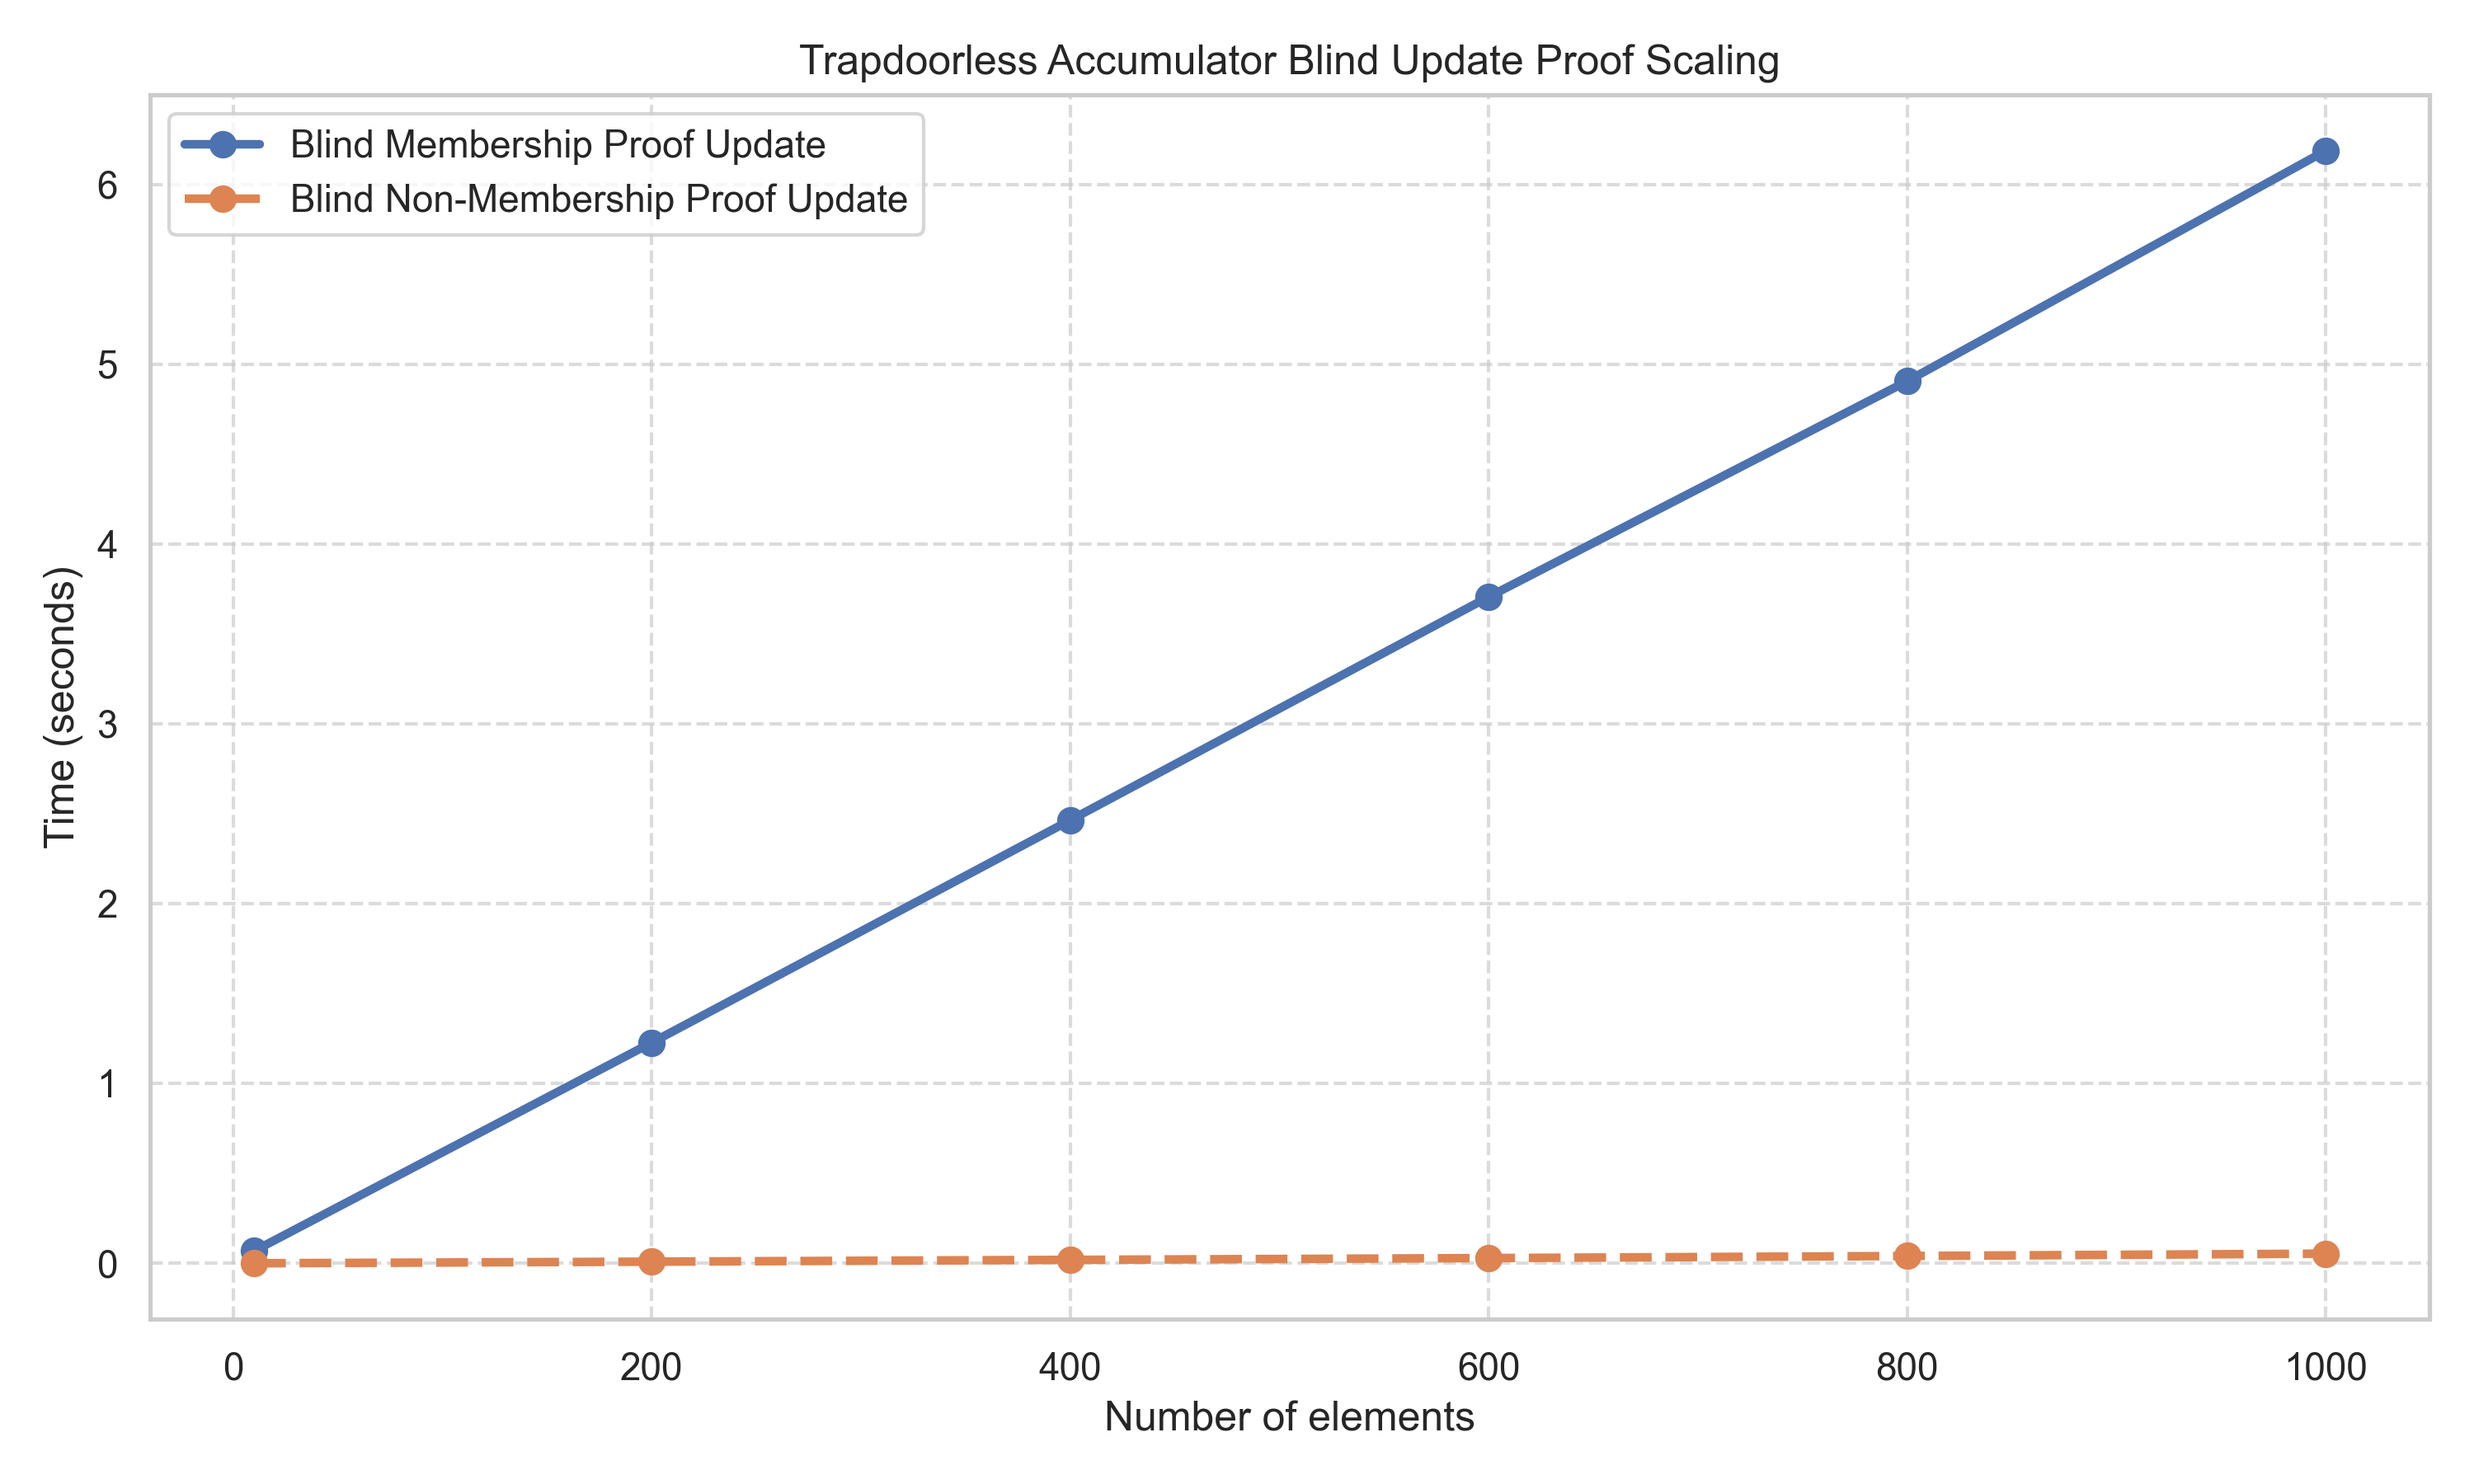
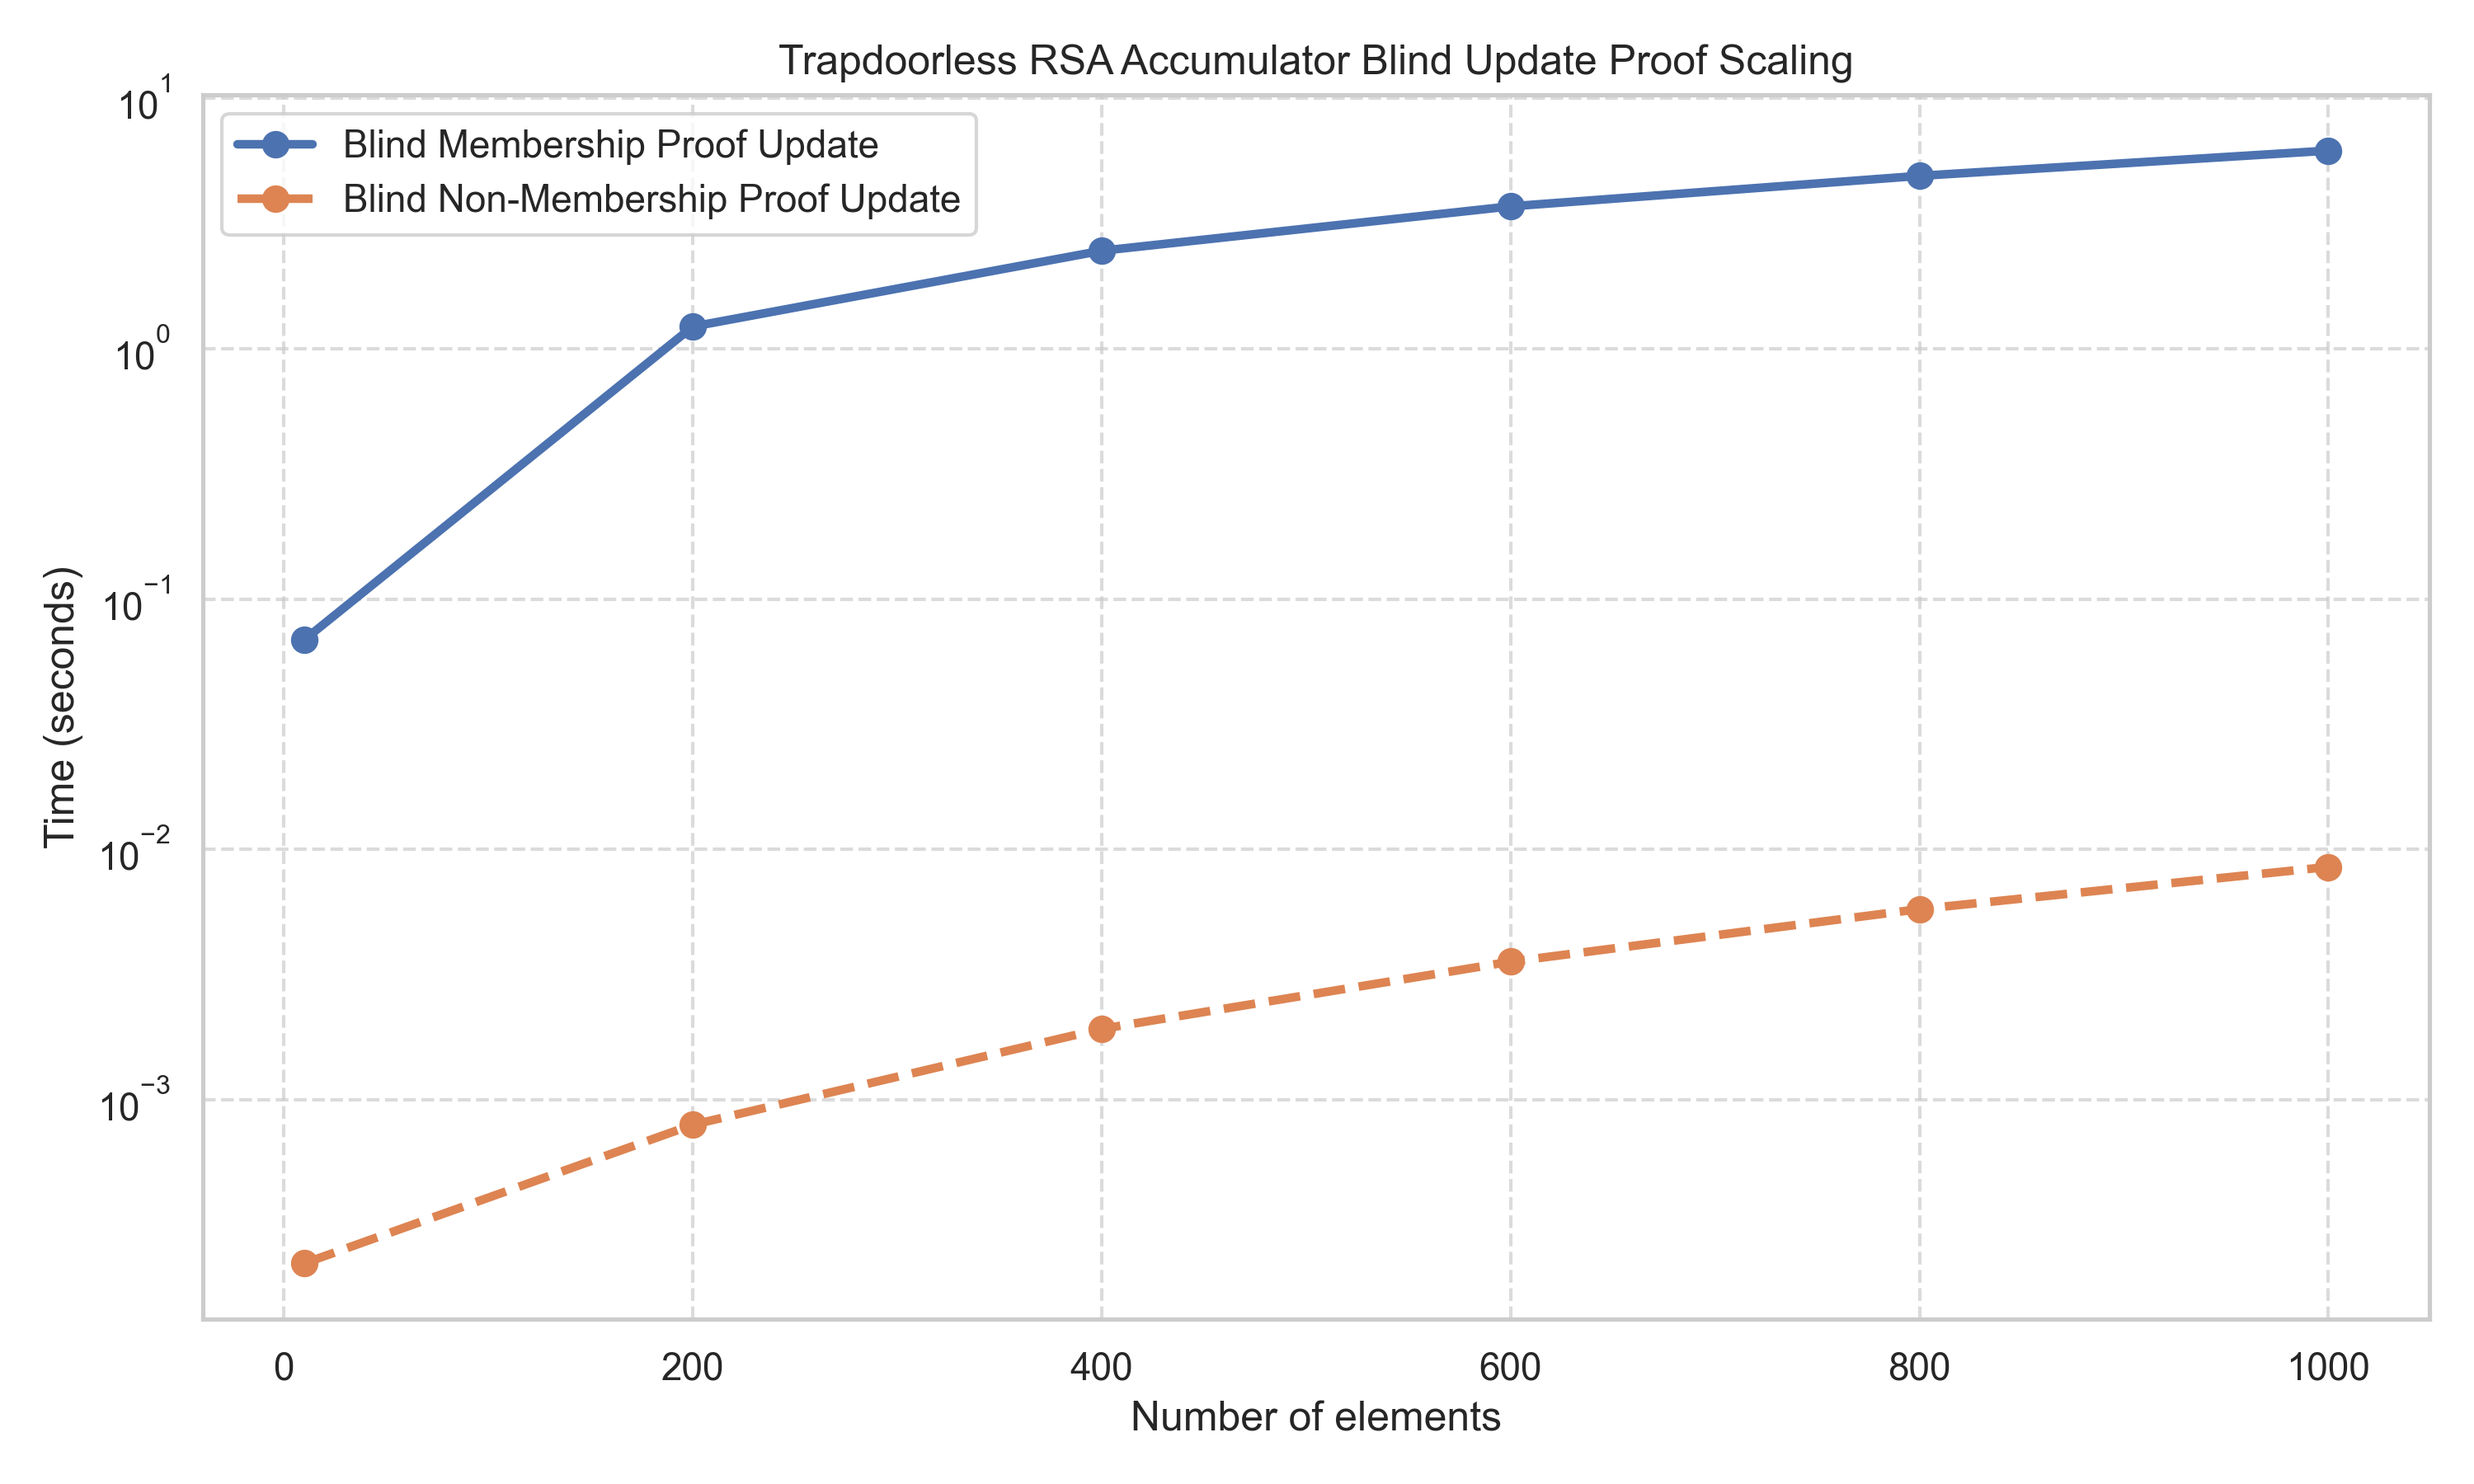
blind_non_mem_proof_upd trapdoorless

diff --git a/src/rsa_accumulator.rs b/src/rsa_accumulator.rs
@@ -265,29 +265,26 @@ impl RsaAccumulator {
             upd_blinded_non_mem_proof
         } else {
             
-            let mut a_int = x % &bnmp_str_int;
-            if a_int < BigInt::ZERO {
-                a_int += &bnmp_str_int;
-            }
-            let a = a_int.to_biguint().unwrap();
 
-            let b_int = (BigInt::from(1) - &a_int * &s) / &bnmp_str_int;
+            let a = x.to_biguint().unwrap();
 
-            let g_int = BigInt::from(self.g.clone());
-            let n_int = BigInt::from(self.n.clone());
-            
-            let ExtendedGcd { gcd: _, x: inv_x, y: _ } = Integer::extended_gcd(&g_int, &n_int);
-            let mut inv_g_int = inv_x % &n_int;
-            if inv_g_int < BigInt::ZERO {
-                inv_g_int += &n_int;
-            }
+            let b_bigint = y.clone();
+        
+            if b_bigint < BigInt::ZERO {
 
-            let inv_g = inv_g_int.to_biguint().unwrap();
+                let inv_g = self.g.modinv(&self.n).unwrap();
 
-            let abs_b = (-b_int).to_biguint().unwrap();
+                let abs_b = (-b_bigint).to_biguint().unwrap();
 
-            let upd_blinded_non_mem_proof = (a, inv_g.modpow(&abs_b, &self.n));
+
+                let upd_blinded_non_mem_proof = (a, inv_g.modpow(&abs_b, &self.n));
+                    upd_blinded_non_mem_proof
+            } else {
+                let b = y.to_biguint().unwrap();
+
+                let upd_blinded_non_mem_proof = (a, self.g.modpow(&b, &self.n));
                 upd_blinded_non_mem_proof
+            }
         }
     }
 

diff --git a/benches/bench_rsa.rs b/benches/bench_rsa.rs
@@ -3,7 +3,7 @@ use ark_std::{test_rng, time::Duration};
 use criterion::{criterion_group, criterion_main, BatchSize, BenchmarkId, Criterion};
 use num_bigint::BigUint;
 use privacy_preserving_accumulators::{BilinearAccumulator, RsaAccumulator};
-
+/*
 fn benchmark_blind_mem_proof(c: &mut Criterion) {
     let mut group = c.benchmark_group("membership_proofs");
 
@@ -281,7 +281,7 @@ fn benchmark_ver_blind_non_mem_proof_upd(c: &mut Criterion) {
 
     group.finish();
 }
- 
+  */
 fn benchmark_blind_non_mem_proof_upd(c: &mut Criterion) {
     let mut group = c.benchmark_group("non_membership_proofs");
 
@@ -329,7 +329,7 @@ fn benchmark_blind_non_mem_proof_upd(c: &mut Criterion) {
 
     group.finish();
 }
-
+/*
 fn benchmark_accumulator_compare(c: &mut Criterion) {
     let mut group = c.benchmark_group("accumulator_compare");
 
@@ -419,17 +419,17 @@ fn benchmark_accumulator_compare(c: &mut Criterion) {
 
     group.finish();
 }
-
+*/
 criterion_group!(
     benches,
-    benchmark_blind_mem_proof,
+    /*benchmark_blind_mem_proof,
     benchmark_unblind_mem_proof,
     benchmark_ver_blind_mem_proof_upd,
     benchmark_blind_mem_proof_upd,
     benchmark_blind_non_mem_proof,
     benchmark_unblind_non_mem_proof,
-    benchmark_ver_blind_non_mem_proof_upd,
+    benchmark_ver_blind_non_mem_proof_upd,*/
     benchmark_blind_non_mem_proof_upd,
-    benchmark_accumulator_compare
+    /*benchmark_accumulator_compare*/
 );
 criterion_main!(benches);

diff --git a/figures/plot_On_results.py b/figures/plot_On_results.py
@@ -168,7 +168,8 @@ for bench in BENCHMARKS_UPDATES:
 
 plt.xlabel("Number of elements", fontsize=12)
 plt.ylabel("Time (seconds)", fontsize=12)
-plt.title("Trapdoorless Accumulator Blind Update Proof Scaling")
+plt.title("Trapdoorless RSA Accumulator Blind Update Proof Scaling")
+plt.yscale('log')
 plt.grid(True, linestyle="--", alpha=0.7)
 plt.legend()
 plt.tight_layout()
